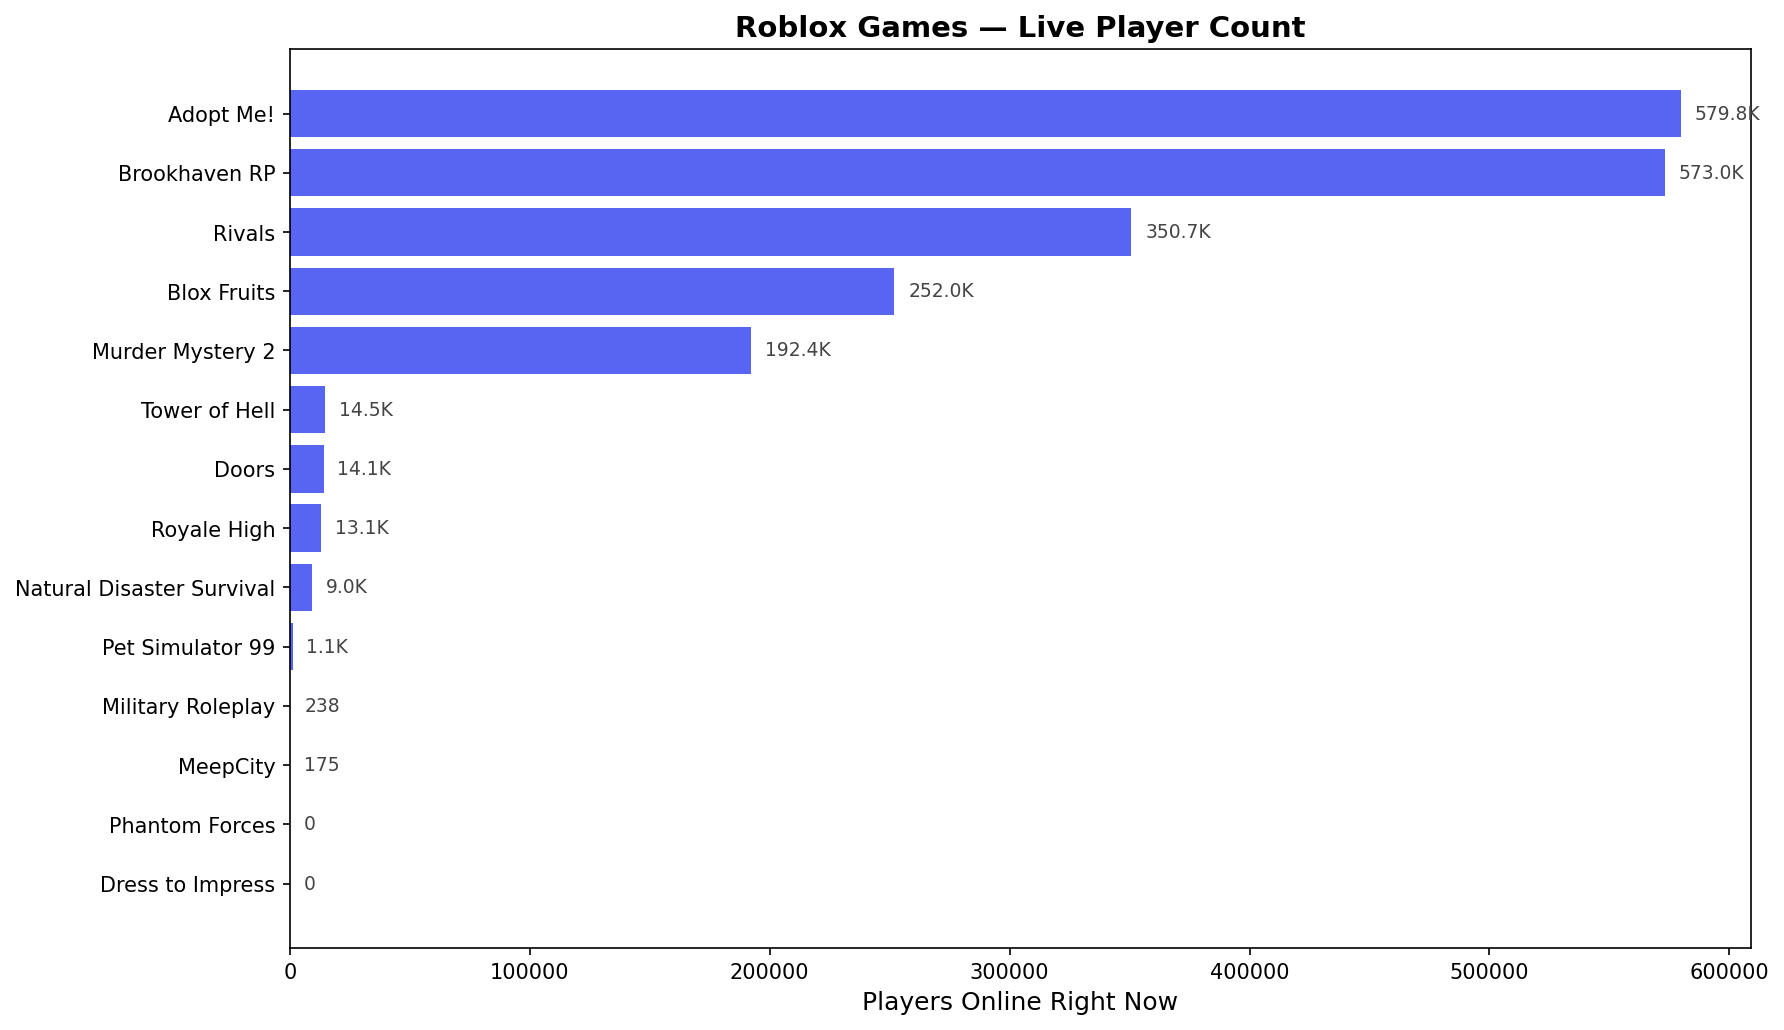
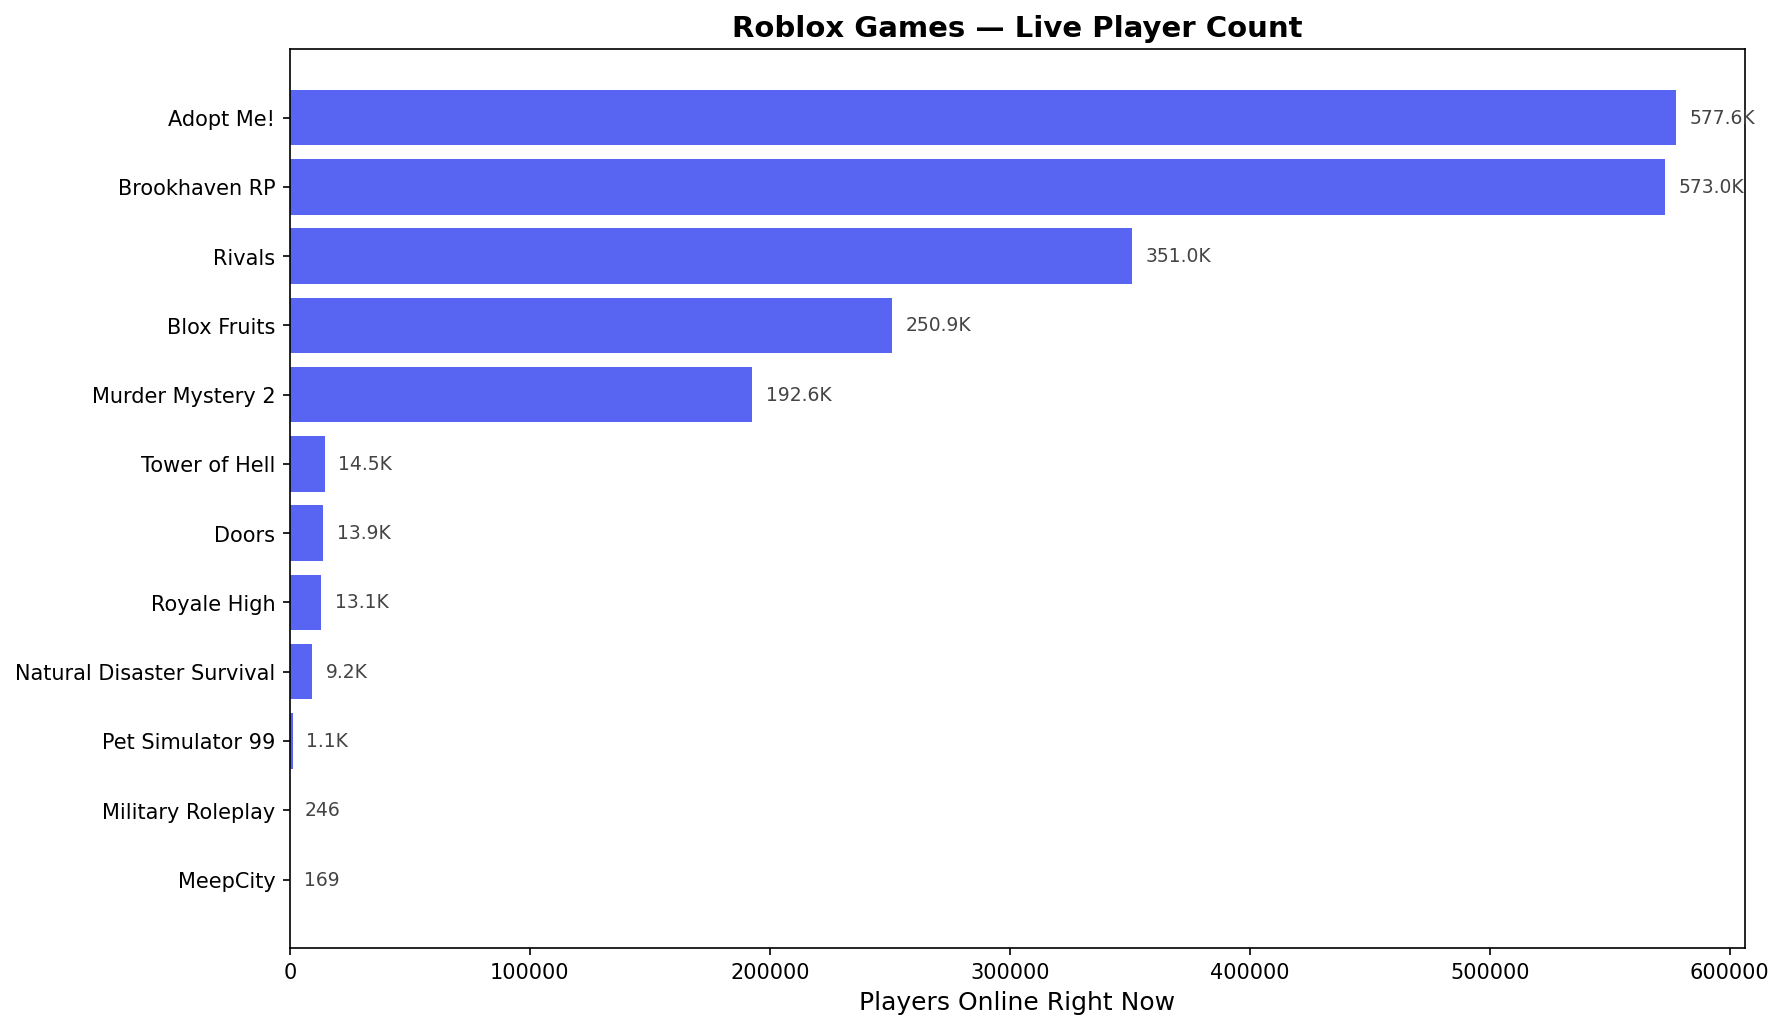
remove games with restricted API access

diff --git a/scraper.py b/scraper.py
@@ -34,8 +34,6 @@ GAMES = {
     65241:      "Natural Disaster Survival",
     321778215:  "Royale High",
     2440500124: "Doors",
-    113491250:  "Phantom Forces",
-    4335335911: "Dress to Impress",
     6035872082: "Rivals",
     2177157737: "Military Roleplay",
 }
